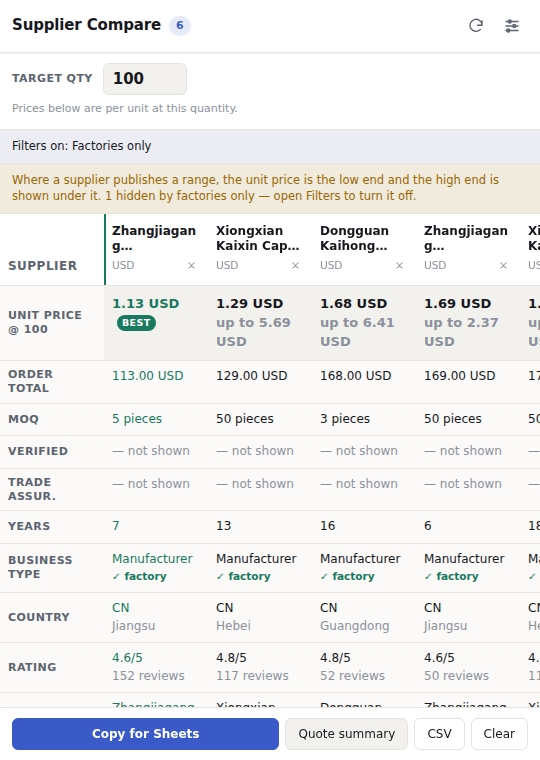
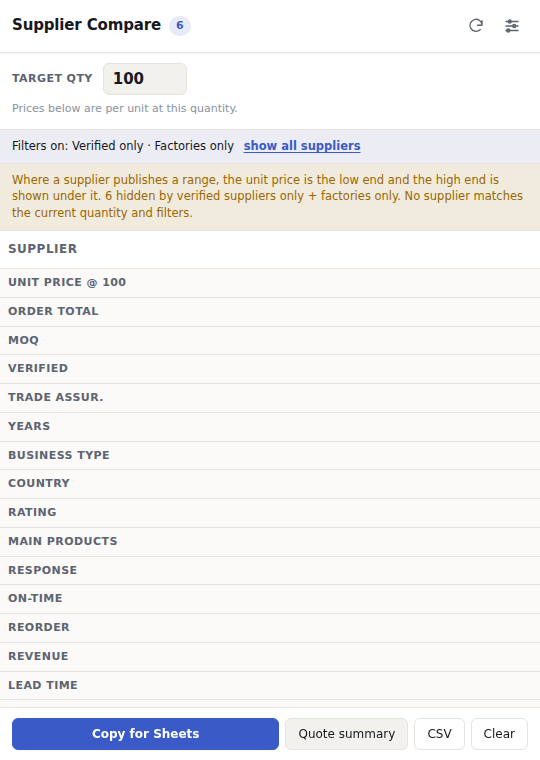
v2.1.1 — one click to clear the filters that hide every supplier
Found in a screenshot of the extension working correctly: the panel was
correct but empty, with "Filters on: Verified only · Factories only" above an
empty matrix. Two filters left over from an earlier session were removing all
20 suppliers, and nothing in the collapsed UI said so — the count badge still
read 20, which is exactly how it looks like a broken capture.

The Filters-on line now carries a "show all suppliers" button that clears all
four filters in one click, in the checkboxes and in storage, so the panel can
never be left showing nothing because of a filter nobody can see. The count line
drops the "open Filters to turn it off" instruction now that the button is
right there.

tools/panel-preview.mjs reproduces that exact state — Verified only +
Factories only over the real capture, which removes every row — and now fails
the build if rows are hidden without the escape hatch present.

diff --git a/src/panel/panel.js b/src/panel/panel.js
@@ -521,7 +521,12 @@ function render() {
     settings.hideBelowMoq ? 'Hide below-MOQ' : '',
     settings.hideLowConfidence ? 'Hide partial data' : '',
   ].filter(Boolean);
-  el.fxFilters.textContent = active.length ? `Filters on: ${active.join(' · ')}` : '';
+  // The filters are also the reason the matrix can be empty while the data is
+  // all there, so this line carries a button that turns them all off. "Open
+  // Filters" is not an answer a tired person at midnight wants.
+  el.fxFilters.innerHTML = active.length
+    ? `Filters on: ${active.join(' · ')} <button class="link-btn" id="btnShowAll" type="button">show all suppliers</button>`
+    : '';
   el.fxFilters.hidden = active.length === 0;
 
   el.matrixHead.innerHTML = `<tr><th class="col-label">Supplier</th>${all
@@ -594,8 +599,7 @@ function render() {
     if (settings.hideBelowMoq) on.push('hide below-MOQ');
     if (settings.hideLowConfidence) on.push('hide partial data');
     notes.push(
-      `${result.filtered.length} hidden by ${on.length ? on.join(' + ') : 'a filter'} — `
-      + 'open Filters to turn it off.',
+      `${result.filtered.length} hidden by ${on.length ? on.join(' + ') : 'a filter'}.`,
     );
   }
   if (result.totalShown === 0 && result.unpriced.length === 0 && records.length > 0) {
@@ -629,6 +633,20 @@ el.qty.addEventListener('input', () => {
     render();
     await send('SET_SETTINGS', { patch: { targetQty: n } });
   }, 200);
+});
+
+// One click clears every filter, both in the checkboxes and in storage, so the
+// panel can never be left showing nothing because of a filter nobody can see.
+el.fxFilters.addEventListener('click', async (e) => {
+  if (!e.target.closest('#btnShowAll')) return;
+  const patch = { verifiedOnly: false, manufacturersOnly: false, hideBelowMoq: false, hideLowConfidence: false };
+  el.fVerified.checked = false;
+  el.fManufacturers.checked = false;
+  el.fBelowMoq.checked = false;
+  el.fLowConf.checked = false;
+  Object.assign(settings, patch);
+  render();
+  await send('SET_SETTINGS', { patch });
 });
 
 for (const [node, key] of [

diff --git a/src/panel/panel.css b/src/panel/panel.css
@@ -255,6 +255,17 @@ body {
   font-weight: 500;
 }
 
+.link-btn {
+  margin-left: 6px; padding: 0;
+  border: 0; background: none;
+  font: inherit; font-weight: 600;
+  color: var(--accent);
+  text-decoration: underline; text-underline-offset: 2px;
+  cursor: pointer;
+}
+.link-btn:hover { color: var(--accent-w); }
+.link-btn:focus-visible { outline: 2px solid var(--accent); outline-offset: 2px; }
+
 .matrix-scroll {
   flex: 1 1 auto; min-height: 0; overflow: auto;
   overscroll-behavior: contain;

diff --git a/README.md b/README.md
@@ -260,6 +260,7 @@ docs/fixtures/              a real capture, committed so previews are never inve
 
 | Version | Date | What changed |
 |---|---|---|
+| **2.1.1** | 2026-09-30 | The panel can no longer be left looking empty by an invisible filter. A saved filter that removes every row now shows "Filters on: …" with a **show all suppliers** button that clears them in one click, and the count reads "6 hidden by verified suppliers only + factories only". The preview harness fails the build if rows are ever hidden without that escape hatch. |
 | **2.1.0** | 2026-09-30 | **Rewritten against a real saved page.** The Suppliers tab is marked up with hashed class names and was being read by guesswork. Now every field comes from a stable signal: `data-supplier-card`, `data-dot-params` (company id + Alibaba's own factory flag), `span[title]` for the name, `img[alt="countryFlag]` for the country and province, `data-supplier-card-gold-years`, `data-supplier-card-reviews`, `a[data-supplier-card-product]` for each product's price and its own MOQ. Adds rating, review count, province and Main products to the panel and the export. New `npm run test:real` runs the shipped extractor against a page you saved with Ctrl+S, in a real browser, and fails if any supplier comes back without a name or a country; its capture renders the panel screenshots. The panel now names the active filters instead of saying "hidden by the current filters". Fixed: a card with no `title` attribute lost its name because the fallback reader was handed a pipe-joined string instead of the card text; `<1k` revenue was dropped because the reader had no comparator; product offers were lost on layouts without product-tile markers. |
 | **2.0.0** | 2026-09-29 | **The Suppliers tab is read correctly.** The company card is now measured from its header (name, flag, badges, credentials) and its prices come from the product tiles, not from the price-tier box. Fixes `US$5,000` appearing as a supplier name and `US` as a country, and the whole page reporting "no published price". New: price ranges kept (`up to X`), the product strip shown in the panel, `Unit price up to` / `Products listed` / `Other products` columns in the export, clearer note about unpriced suppliers. `Response time` keeps its `<` so `<1h` is not flattened to `1h`. |
 | 1.2.0 | 2026-09-29 | Re-scan could not read the page at all. `activeTab` is a single-use grant that does not survive a navigation, so the toolbar click consumed it. Now requests `https://*.alibaba.com/*` host access (still no `tabs`). Verified end to end on a real suppliers search. |
